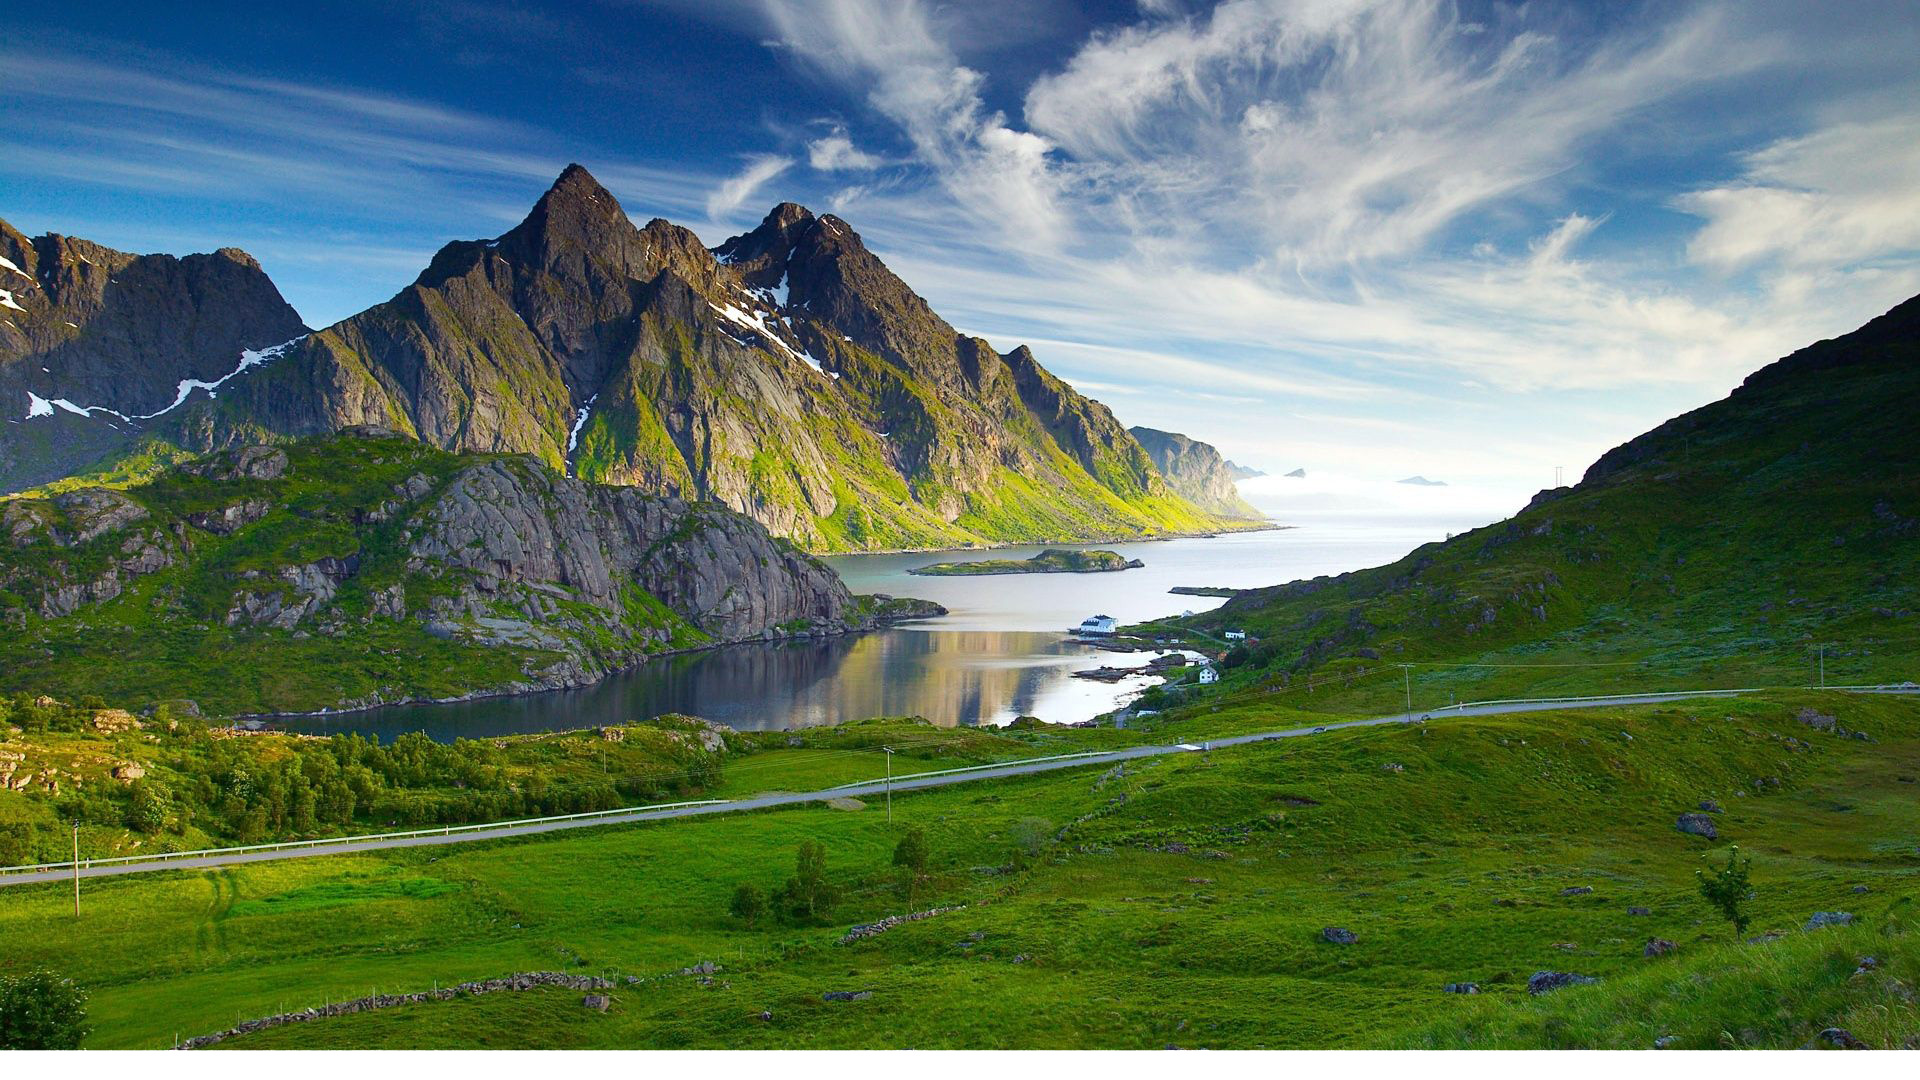
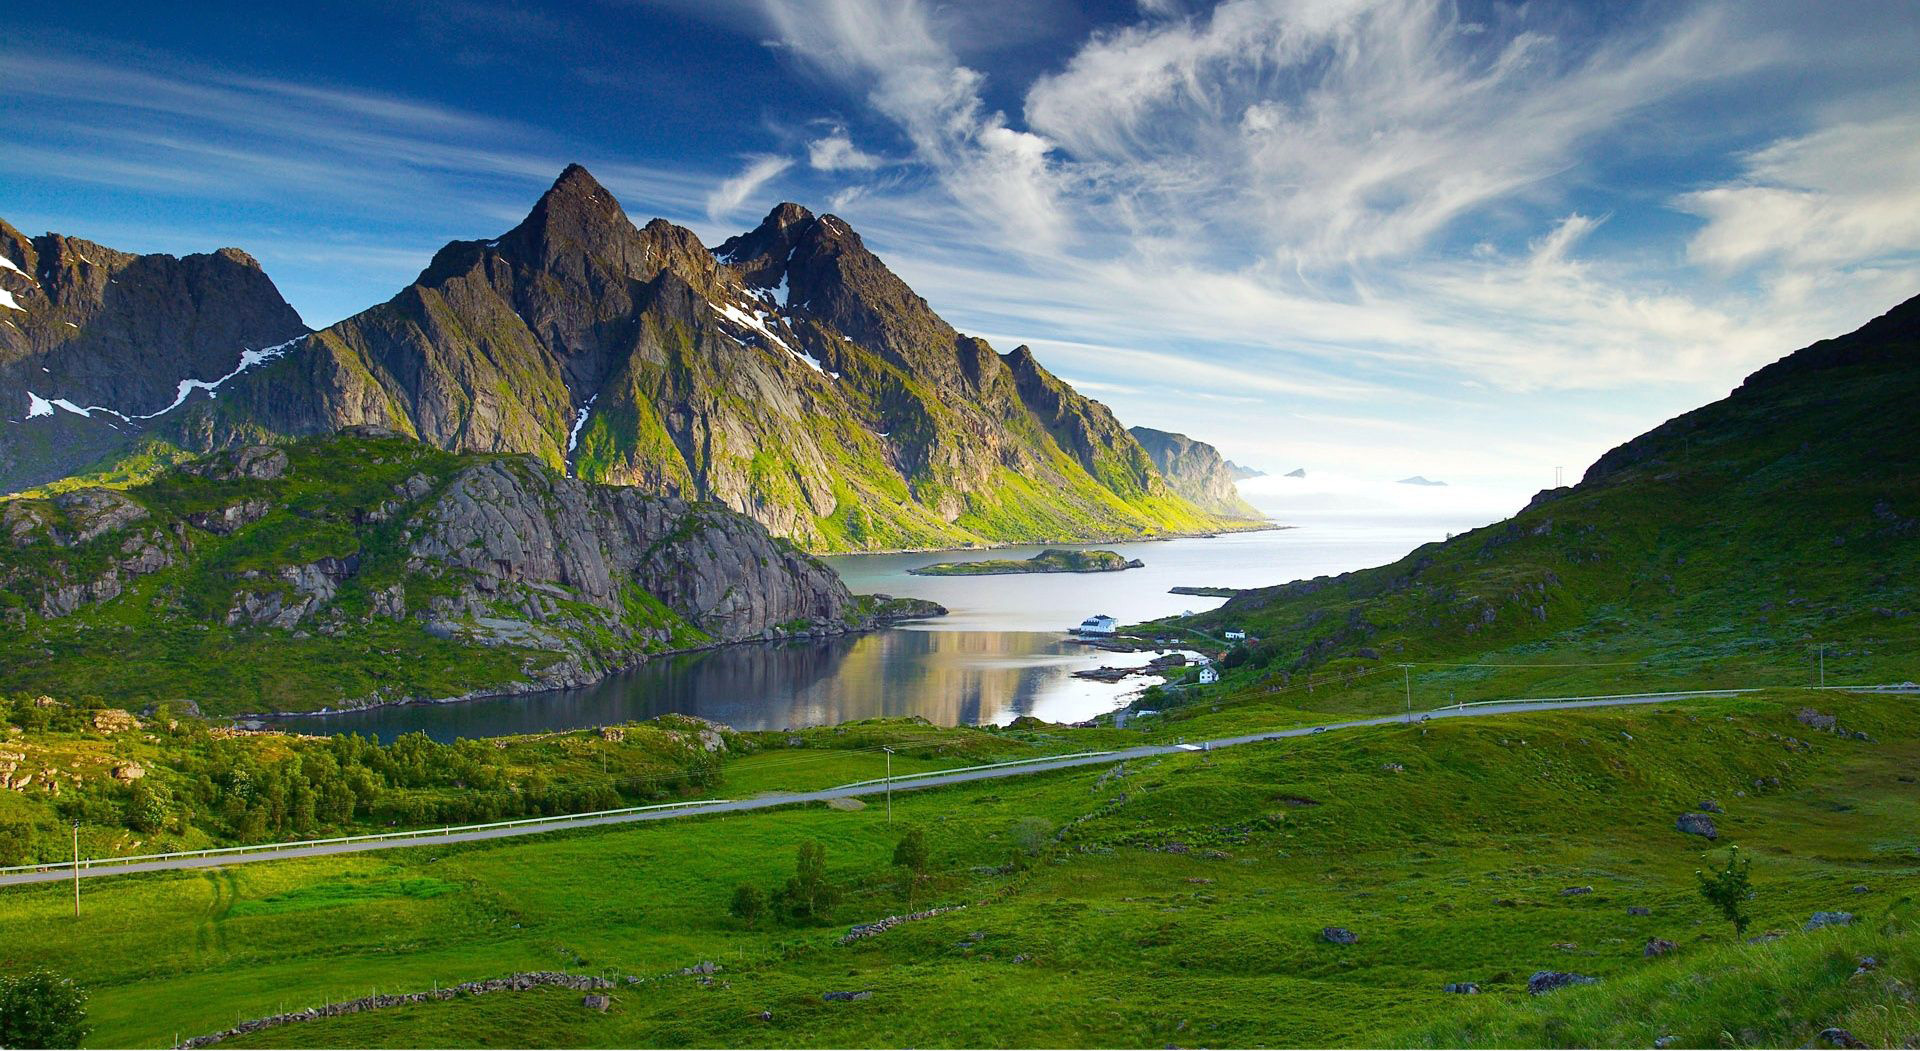
responsive finished for header

diff --git a/static/main.css b/static/main.css
@@ -116,7 +116,7 @@ header .hero p span {
 }
 
 header .hero img {
-  height: 450px;
+  width: 50%;
 }
 
 .about {
@@ -751,7 +751,31 @@ footer ul a:hover {
   left: 0;
 }
 
+@media screen and (max-width: 480px) {
+  .sidebar {
+    min-width: 100vw;
+  }
+}
+
+@media (max-width: 1200px) {
+  header .hero h1 {
+    font-size: 4.5rem;
+  }
+}
+
 @media screen and (max-width: 992px) {
+  header .hero {
+    padding: 80px 30px;
+  }
+  header .hero h1 {
+    font-size: 3rem;
+  }
+  header .hero p {
+    font-size: 1rem;
+  }
+  header .hero img {
+    width: 55%;
+  }
   .contactBody > h1 {
     padding: 40px 20px;
   }
@@ -805,7 +829,48 @@ footer ul a:hover {
   }
 }
 
+@media screen and (max-width: 768px) {
+  header nav .toggle {
+    display: block;
+  }
+  header nav ul {
+    display: none;
+    cursor: pointer;
+  }
+  header .hero {
+    display: -webkit-box;
+    display: -ms-flexbox;
+    display: flex;
+    -webkit-box-pack: center;
+        -ms-flex-pack: center;
+            justify-content: center;
+    -webkit-box-align: center;
+        -ms-flex-align: center;
+            align-items: center;
+    -webkit-box-orient: vertical;
+    -webkit-box-direction: normal;
+        -ms-flex-direction: column;
+            flex-direction: column;
+    text-align: center;
+    padding: 50px 30px;
+  }
+  header .hero h1 {
+    font-size: 5rem;
+  }
+  header .hero p {
+    font-size: 1.2rem;
+    max-width: 750px;
+  }
+  header .hero img {
+    width: 100%;
+    margin: 2rem 0;
+  }
+}
+
 @media screen and (max-width: 576px) {
+  header .hero h1 {
+    font-size: 4rem;
+  }
   .contactBody nav .toggle {
     display: block;
   }
@@ -834,6 +899,18 @@ footer ul a:hover {
 }
 
 @media screen and (max-width: 480px) {
+  header nav {
+    padding: 30px 20px;
+  }
+  header .hero {
+    padding: 30px 30px;
+  }
+  header .hero h1 {
+    font-size: 3rem;
+  }
+  header .hero p {
+    font-size: 1rem;
+  }
   .contactBody nav {
     padding: 30px 20px;
   }

diff --git a/sass/_responsive.scss b/sass/_responsive.scss
@@ -1,4 +1,26 @@
+@include mediaLarge {
+  header .hero h1 {
+    font-size: 4.5rem;
+  }
+}
+
 @include mediaMediumLarge {
+  header .hero {
+    padding: 80px 30px;
+
+    h1 {
+      font-size: 3rem;
+    }
+
+    p {
+      font-size: 1rem;
+    }
+
+    img {
+      width: 55%;
+    }
+  }
+
   .contactBody {
     > h1 {
       padding: 40px 20px;
@@ -45,7 +67,47 @@
   }
 }
 
+@include mediaMedium {
+  header {
+    nav {
+      .toggle {
+        display: block;
+      }
+
+      ul {
+        display: none;
+        cursor: pointer;
+      }
+    }
+
+    .hero {
+      @include flex(center, center);
+      flex-direction: column;
+      text-align: center;
+      padding: 50px 30px;
+
+      h1 {
+        font-size: 5rem;
+      }
+
+      p {
+        font-size: 1.2rem;
+        max-width: 750px;
+      }
+
+      img {
+        width: 100%;
+        margin: 2rem 0;
+      }
+    }
+  }
+}
+
 @include mediaMediumLow {
+  header .hero h1 {
+    font-size: 4rem;
+  }
+
   .contactBody {
     nav {
       .toggle {
@@ -70,6 +132,24 @@
 }
 
 @include mediaSmall {
+  header {
+    nav {
+      padding: 30px 20px;
+    }
+
+    .hero {
+      padding: 30px 30px;
+
+      h1 {
+        font-size: 3rem;
+      }
+
+      p {
+        font-size: 1rem;
+      }
+    }
+  }
+
   .contactBody {
     nav {
       padding: 30px 20px;

diff --git a/templates/index.html b/templates/index.html
@@ -24,6 +24,9 @@
           <li><a href="{{ url_for('login') }}">Log in</a></li>
           <li><a href="{{ url_for('register') }}">Register</a></li>
         </ul>
+        <div class="toggle">
+          <div></div>
+        </div>
       </nav>
       <section class="hero">
         <div>
@@ -146,6 +149,13 @@
         <li><a href="{{ url_for('register') }}">Register</a></li>
       </ul>
     </footer>
+    <section class="sidebar">
+      <ul>
+        <li><a href="{{ url_for('dashboard') }}">Dashboard</a></li>
+        <li><a href="{{ url_for('login') }}">Log in</a></li>
+        <li><a href="{{ url_for('register') }}">Register</a></li>
+      </ul>
+    </section>
     <script>
       AOS.init();
     </script>

diff --git a/sass/_config.scss b/sass/_config.scss
@@ -6,8 +6,20 @@ $primaryFont: "Work Sans", sans-serif;
   align-items: $align;
 }
 
+@mixin mediaLarge {
+  @media (max-width: 1200px) {
+    @content;
+  }
+}
+
 @mixin mediaMediumLarge {
   @media screen and (max-width: 992px) {
+    @content;
+  }
+}
+
+@mixin mediaMedium {
+  @media screen and (max-width: 768px) {
     @content;
   }
 }

diff --git a/sass/_header.scss b/sass/_header.scss
@@ -88,7 +88,7 @@ header {
     //   border-radius: 10px;
     // }
     img {
-      height: 450px;
+      width: 50%;
     }
   }
 }

diff --git a/sass/_sidebar.scss b/sass/_sidebar.scss
@@ -89,3 +89,9 @@
   top: 0;
   left: 0;
 }
+
+@include mediaSmall {
+  .sidebar {
+    min-width: 100vw;
+  }
+}
